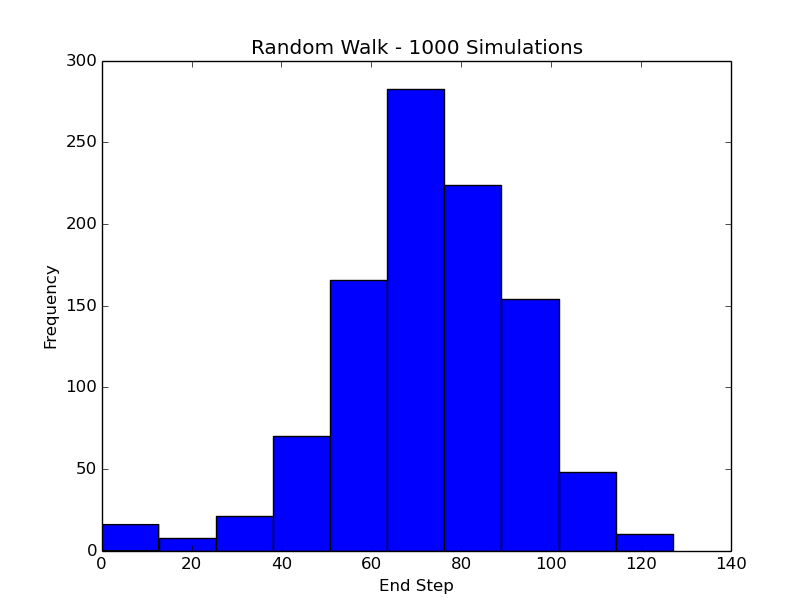
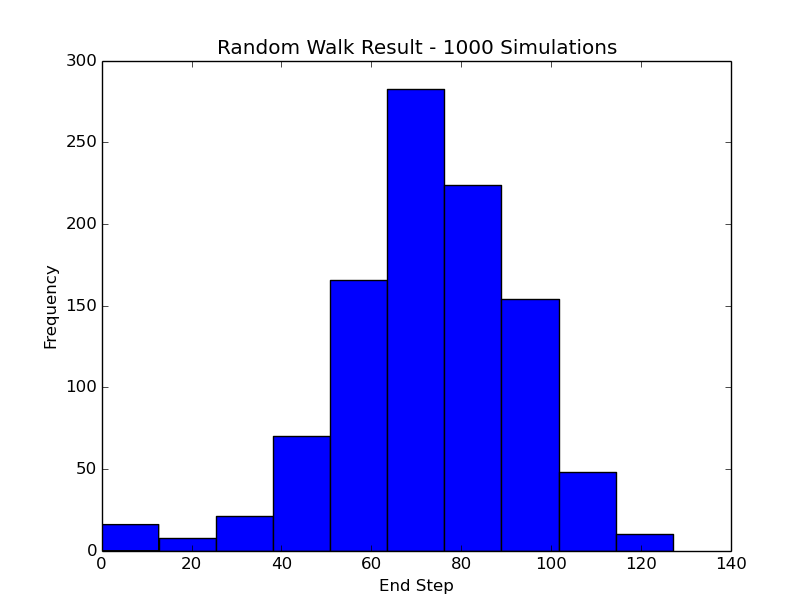
Update graph title

Changed region(s): [[0.2771, 0.0621, 0.7697, 0.0931]]

diff --git a/random_walk.py b/random_walk.py
@@ -30,13 +30,13 @@ all_walks_np_t = np.transpose(all_walks_np)
 a = plt.plot(all_walks_np_t)
 plt.xlabel('Walk')
 plt.ylabel('Step')
-plt.title('Random Walk - 1000 Simulations')
+plt.title('Random Walk Process - 1000 Simulations')
 plt.show(a)
 plt.clf()
 b = plt.hist(all_walks_np_t[-1])
 plt.xlabel('End Step')
 plt.ylabel('Frequency')
-plt.title('Random Walk - 1000 Simulations')
+plt.title('Random Walk Result - 1000 Simulations')
 plt.show(b)
 plt.clf()
 
